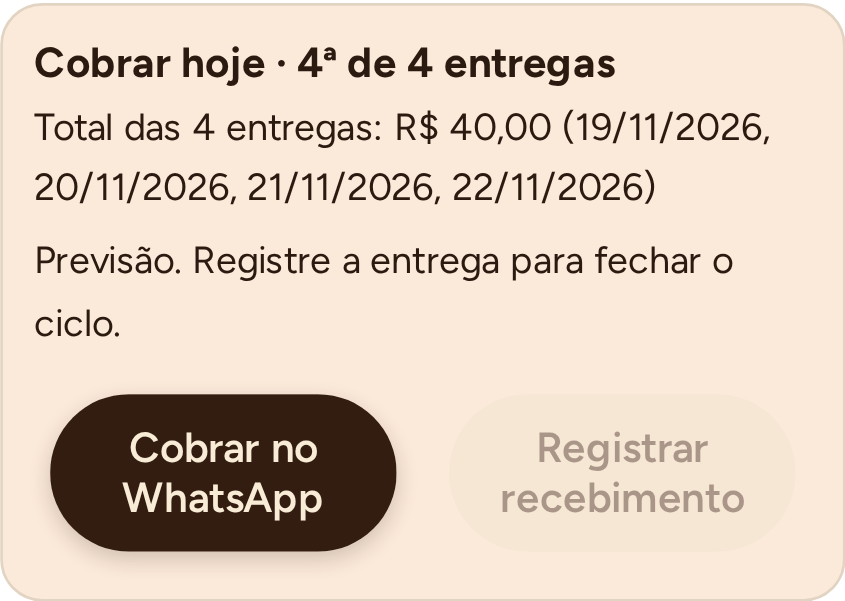
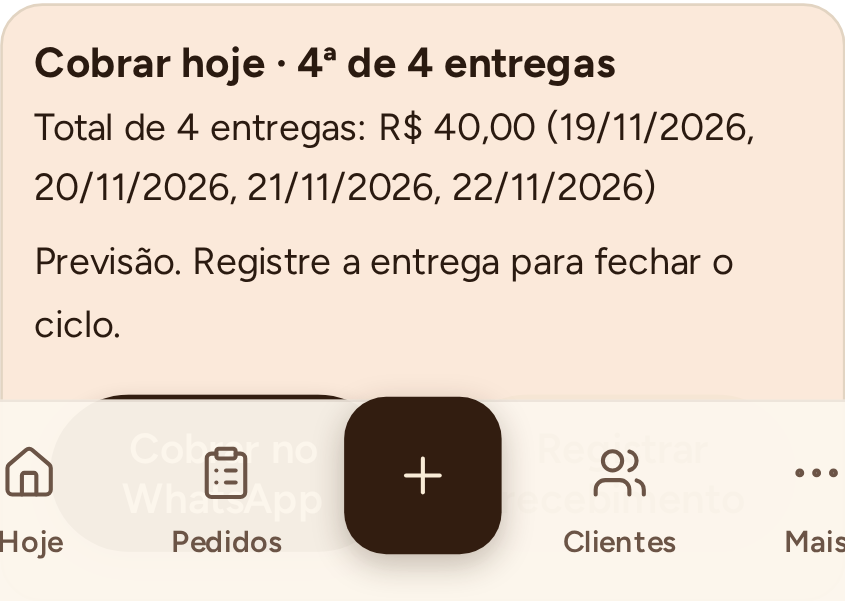
T18: conclui a validação do ciclo de entregas

diff --git a/tests/e2e/t18-delivery-cycle.spec.js b/tests/e2e/t18-delivery-cycle.spec.js
@@ -202,7 +202,12 @@ test('T18 configura a cobrança por entregas, confere mensagem e registra o cicl
     await page
       .getByRole('button', { name: 'Cliente DEMONSTRAÇÃO P1', exact: true })
       .click();
-    await page.locator('.flavor-add').first().click();
+    await page
+      .getByRole('button', {
+        name: 'Produto DEMONSTRAÇÃO P1, adicionar',
+        exact: true,
+      })
+      .click();
     const next = () => page.getByRole('button', { name: /^Continuar/ }).click();
     await next();
     await page.getByRole('button', { name: 'Amanhã', exact: true }).click();

diff --git a/docs/colaboracao/CODEX_PARA_CLAUDE.md b/docs/colaboracao/CODEX_PARA_CLAUDE.md
@@ -1,3 +1,27 @@
+## T18 — entrega para revisão (22/11/2026)
+
+### Produzido
+
+- Versão 1.5.0. **A cada X entregas** está no pagamento do pedido e na condição do cliente, com contador de 2 a 12 e vencimento na última entrega efetiva. Retiradas concluídas contam. O ciclo seguinte começa mesmo com saldo anterior em aberto.
+- Ao trocar a condição no meio do ciclo, a primeira entrega efetiva sob a regra nova fecha e dá vencimento aos pedidos anteriores. O valor da entrega sob a nova condição fica separado. Desfazer recalcula o ciclo e preserva os recebimentos registrados.
+- O Hoje mostra a contagem e o aviso **Cobrar hoje**, com prévia editável do WhatsApp e recebimento agrupado. A conta mostra progresso, ciclos fechados e saldo. Financeiro e relatórios usam as datas efetivas. O aviso privado da manhã usa o agendador existente.
+- Incorporei a versão 1.4.3 do main. A abertura de **ver sabores** tem menos espaço entre o título e a lista. A ajuda inclui um exemplo. Há quatro capturas com dados de demonstração e um guia em `docs/FASE_T18.md`.
+
+### Testes executados
+
+- Build de Pages, TypeScript, lint, formatação, 252 testes unitários e 349 verificações de segurança.
+- Integrações de financeiro, operação, P1 e notificações passaram. A T18 foi testada em D1 com migrações até 0028. Verifiquei retirada, cancelamento, desfazer, entrega atrasada, reinício com saldo em aberto, recebimento parcial idempotente, relatórios, isolamento e deduplicação do aviso. As trocas para outro X, Na entrega e A prazo por data fecham apenas o saldo anterior.
+- 27 testes de tela passaram em Chromium móvel, WebKit móvel e Chromium desktop. O cenário T18 verificou o contador, a projeção, a prévia do WhatsApp, o recebimento e a abertura da lista de sabores. Na primeira rodada, o WebKit abriu a Caixa Mista porque o teste selecionava o primeiro cartão. O teste final seleciona o sabor pelo nome.
+
+### Limitações
+
+- Um pedido agendado permite conferir a previsão. O recebimento do ciclo e o Pix da cobrança ficam disponíveis após confirmar a última entrega efetiva. O WhatsApp exige conferência e envio humano.
+- Os avisos foram testados com provedor simulado. Para aparelhos já inscritos, o aviso novo depende de o responsável republicar o agendador após a publicação.
+
+### Pendências
+
+- Validação da gestão e Segurança automáticas do PR e revisão do Claude. A T18 dispensa migração. O guia registra o passo para republicar o agendador, quando autorizado.
+
 ## T18 — plano antes do código (22/11/2026)
 
 Base `8d379b8` e prévia `previas/t18-cobrar-a-cada-x-entregas.png`. Estender o JSON de condições, agrupar entregas efetivas por cliente e vincular o vencimento à última do grupo em Financeiro, recebíveis e relatórios. Troca de condição inicia outro grupo quando há uma entrega efetiva sob a regra nova. Pedidos agendados do dia são projeções no Hoje. Ao desfazer, recalcular sem alterar pagamentos gravados. Reaproveitar a alocação e o CAS dos recebimentos, a prévia do WhatsApp e a fila de avisos privados.
